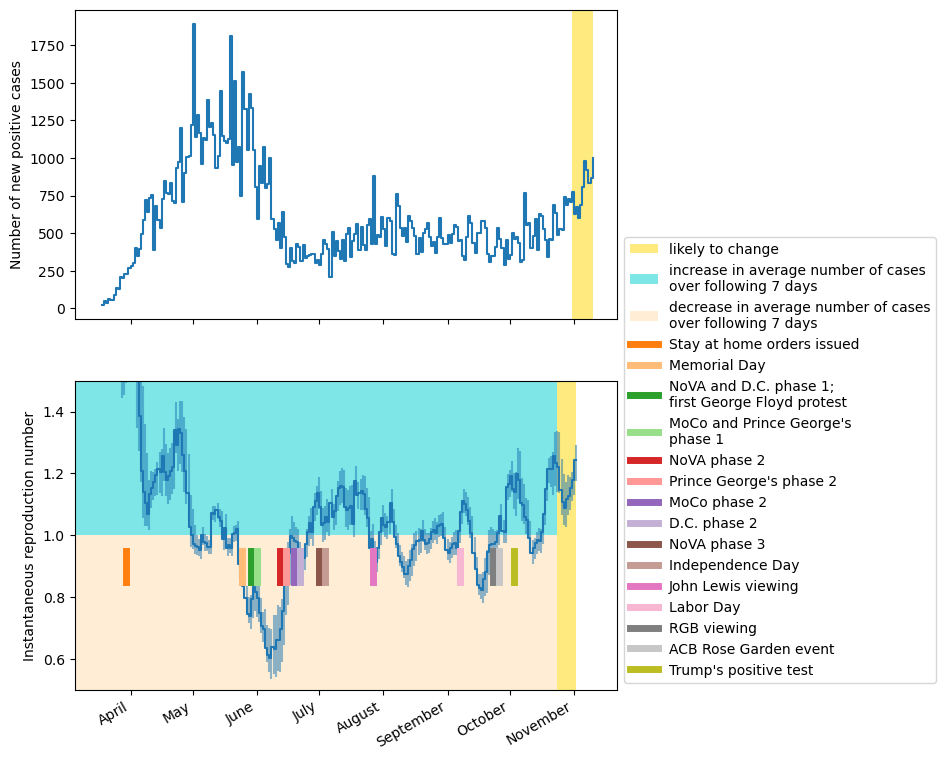
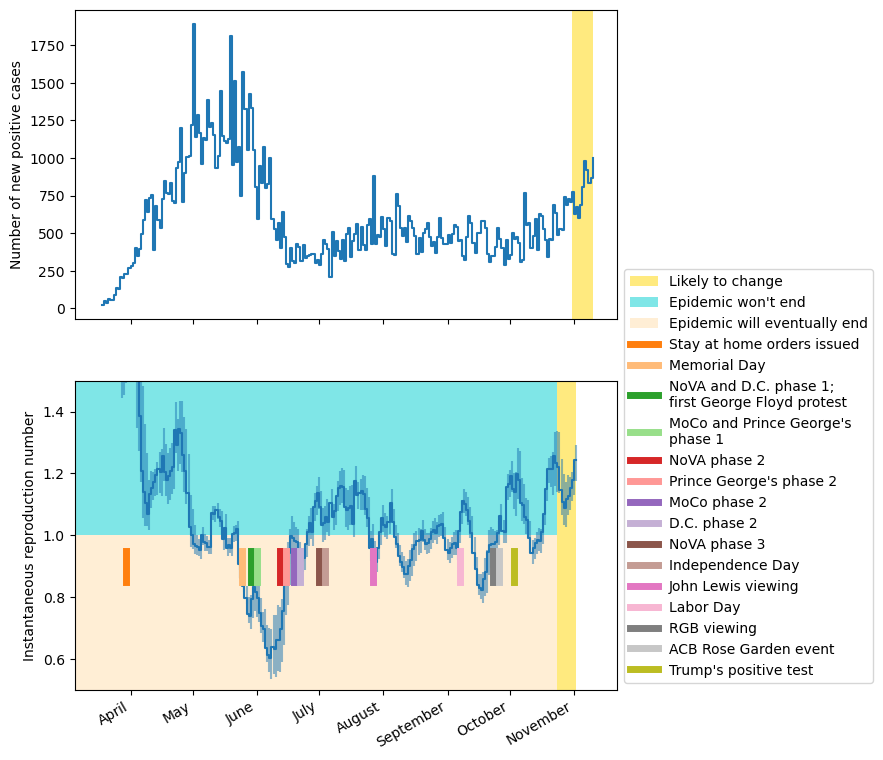
Wording changes

diff --git a/plot_incid_repro.py b/plot_incid_repro.py
@@ -59,13 +59,13 @@ for i, day in enumerate(sorted(important_dates.keys())):
 lim_transform = ax2.transData + ax2.transAxes.inverted()
 
 ax2.axvspan(last_repro, incid["report_date"].loc[repro.index].max(),
-            facecolor="gold", label="likely to change", alpha=0.5)
+            facecolor="gold", label="Likely to change", alpha=0.5)
 ax2.axhspan(1, 1.5, xmax=lim_transform.transform((date2num(last_repro), 0))[0],
             facecolor="darkturquoise", alpha=0.5,
-            label="increase in average number of cases\nover following 7 days")
+            label="Epidemic won't end")
 ax2.axhspan(0.5, 1, xmax=lim_transform.transform((date2num(last_repro), 0))[0],
             facecolor="navajowhite", alpha=0.5,
-            label="decrease in average number of cases\nover following 7 days")
+            label="Epidemic will eventually end")
 
 handles, labels = ax2.get_legend_handles_labels()
 handles = [handles[-3]] + handles[-2:] + handles[:-3]
